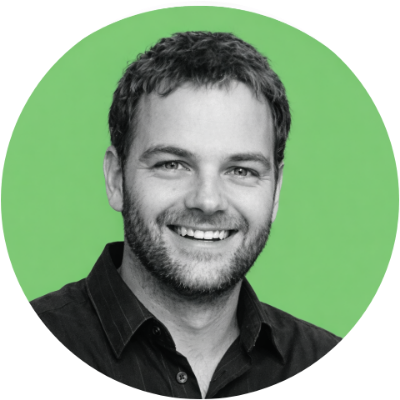
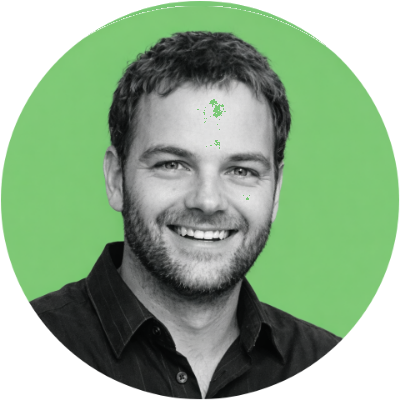
Cifras de reviews en verde derivable, y retratos sin borde blanco
1. Las cifras vuelven al verde. Ninguna tinta del manual sirve sobre
   blanco --van hacia claro y a 30-48px hace falta 3:1: el de marca da
   2.66, el 80% da 2.24-- asi que se usa el verde de marca al 60% SOBRE
   NEGRO: #226D2C, 6.38:1. Es el mismo metodo del que ya sale el #1A1A1A
   de la web, asi que es derivable y no inventado.

2. Matthew y Marco arrastraban el fondo blanco del recorte en el borde
   superior: medido, el 100% de los pixeles opacos de las filas 1 a 5
   eran blancos, y decaia hasta la 25. Sobre el circulo verde se veia
   como un corte. Erica y Enrique no lo tenian.

   Corregidos 5621 y 1034 pixeles al verde del circulo, y regenerados los
   webp. Verificado: 0 blancos en las filas altas y las caras intactas.

Changed region(s): [[0.27, 0.0, 0.72, 0.06], [0.51, 0.24, 0.57, 0.3], [0.72, 0.06, 0.78, 0.09]]

diff --git a/css/d2-variantes.css b/css/d2-variantes.css
@@ -8990,17 +8990,20 @@ span.d2-panel__filtro:hover {
 .d2 .d2-res-cen__cifras b {
   font-size: clamp(30px, 3vw, 48px);
   line-height: 1;
-  /* Negro de marca, como TODAS las cifras grandes de la web: $480K y 2.7M
-     del hero, $4.4M de marcas, $2.94M y 2008 de la seccion de prueba.
-     Ninguna va en verde.
+  /* Verde de marca al 60% sobre negro. 6.38:1 sobre blanco.
 
-     Aqui hubo un #2E9E3D inventado. Cumplia el 3:1 --3.46 sobre blanco--
-     pero no sale del manual, y medido no hay ningun verde de la guia que
-     sirva a este tamano: el de marca da 2.66 y las tintas van hacia claro,
-     asi que bajan mas todavia (80% = 2.24).
+     El manual solo define tintas hacia CLARO y ninguna sirve aqui: a este
+     tamano hace falta 3:1 y el verde de marca da 2.66, el 80% da 2.24 y de
+     ahi para abajo. Aclarar sobre blanco siempre empeora.
 
-     El verde se queda donde le toca por manual: acento, no cifra. */
-  color: var(--c-texto, #333333);
+     Oscurecer sobre negro es el mismo metodo con el que ya sale el #1A1A1A
+     de la web --negro de marca al 50% sobre negro-- asi que el color sigue
+     siendo derivable del manual, no inventado. Sustituye a un #2E9E3D que
+     no lo era.
+
+     Es el mismo verde oscuro que esta pendiente de decidir para los 141
+     usos del #026F00: si se elige otro, este cambia con el. */
+  color: #226D2C;
 }
 
 .d2 .d2-res-cen__cifras span {
